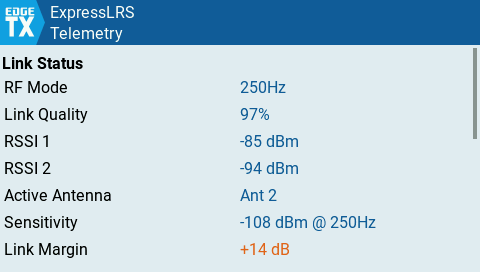
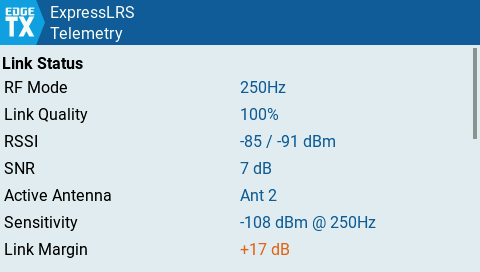
Show -- when PWR is 0, retain last position data, merge RSSI 1 / 2 into single row and add RSNR when in non FLRC mdoe
addresses

> Telem Widget - PWR reads 0 mW when not connected but others show --
> Telem Widget - No last GPS position on disconnect? If not in your
design plans that's fine, something for later.
> Telem Widget - Fullscreen - Maybe merge RSSI 1 / RSSI 2 onto one line
so the RSNR can be added?

diff --git a/docs/development.md b/docs/development.md
@@ -143,6 +143,7 @@ The simulator supports multiple test scenarios, configurable via the `config.sce
 | `model_mismatch` | TX + RX connected with Model ID mismatch flag. Triggers warning dialog. |
 | `armed` | TX + RX connected with "is Armed" warning flag. `ANT` is pinned to 0. |
 | `single_antenna` | TX + RX connected on a receiver with one RF path. `2RSS` is pinned to 0, so the telemetry widget reports no diversity. |
+| `flrc` | TX + RX connected at F1000. FLRC carries no SNR, so `RSNR` is a permanent 0 and the full-screen SNR row reads "n/a". |
 | `slow_loading` | Parameter reads delayed by ~2 seconds each. Tests loading UI states. |
 | `no_module` | No CRSF module found. Triggers "No Module Found" error dialog. |
 | `critical_error` | TX + RX connected with a critical baud-rate error flag. Triggers the warning screen; the suppress write clears it. |
